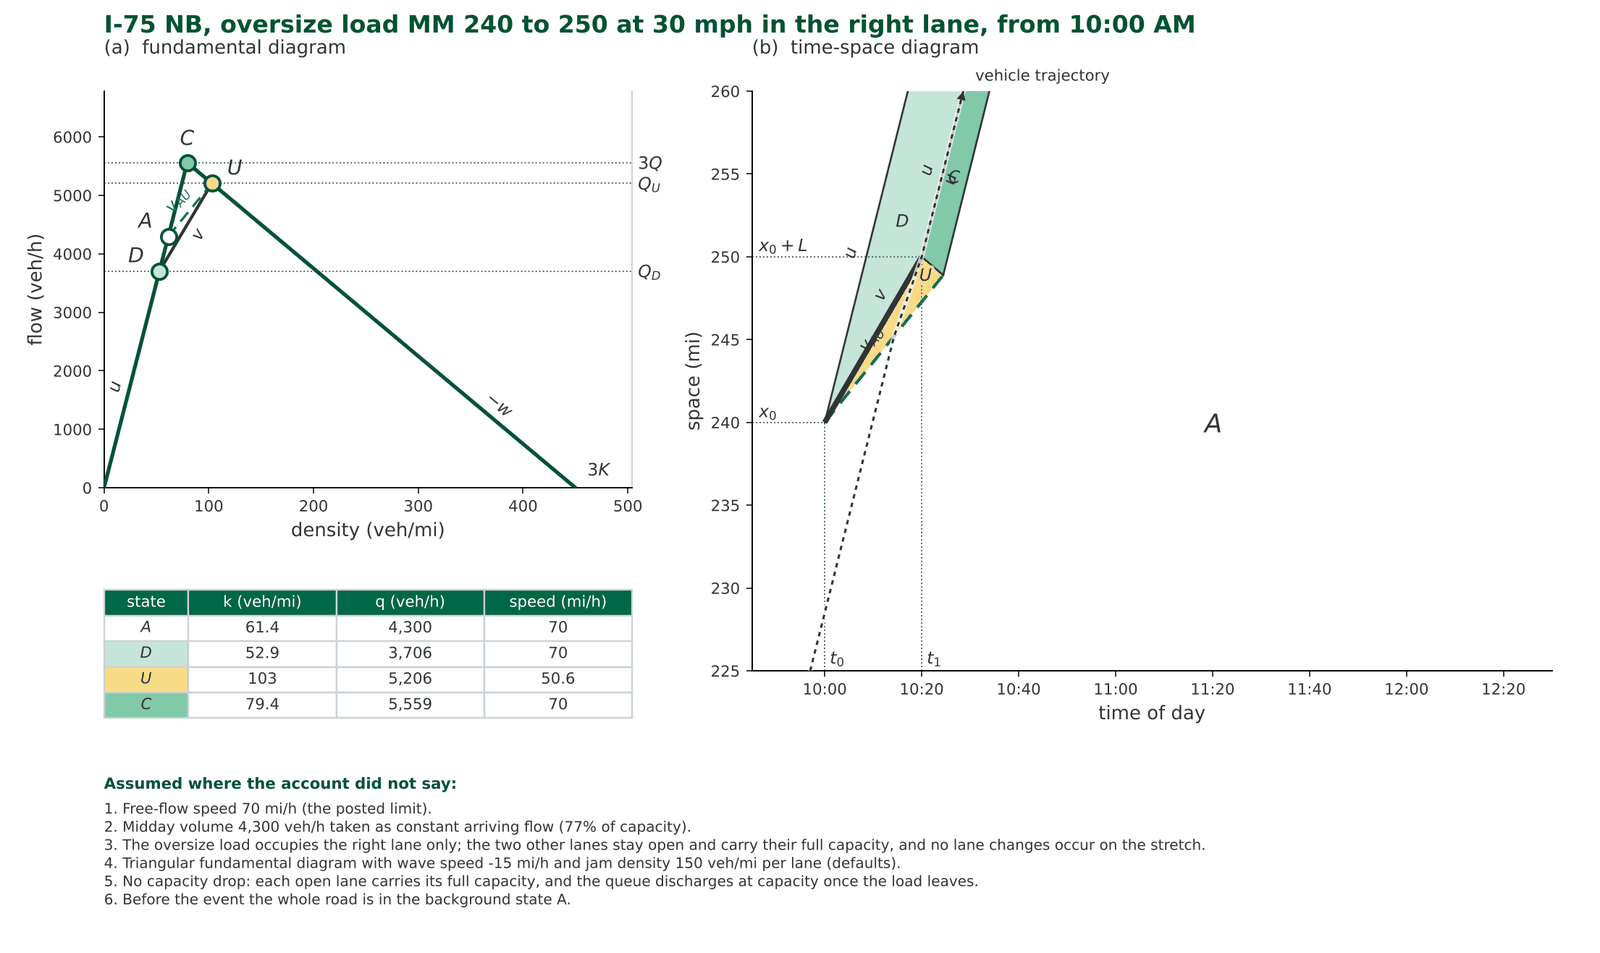
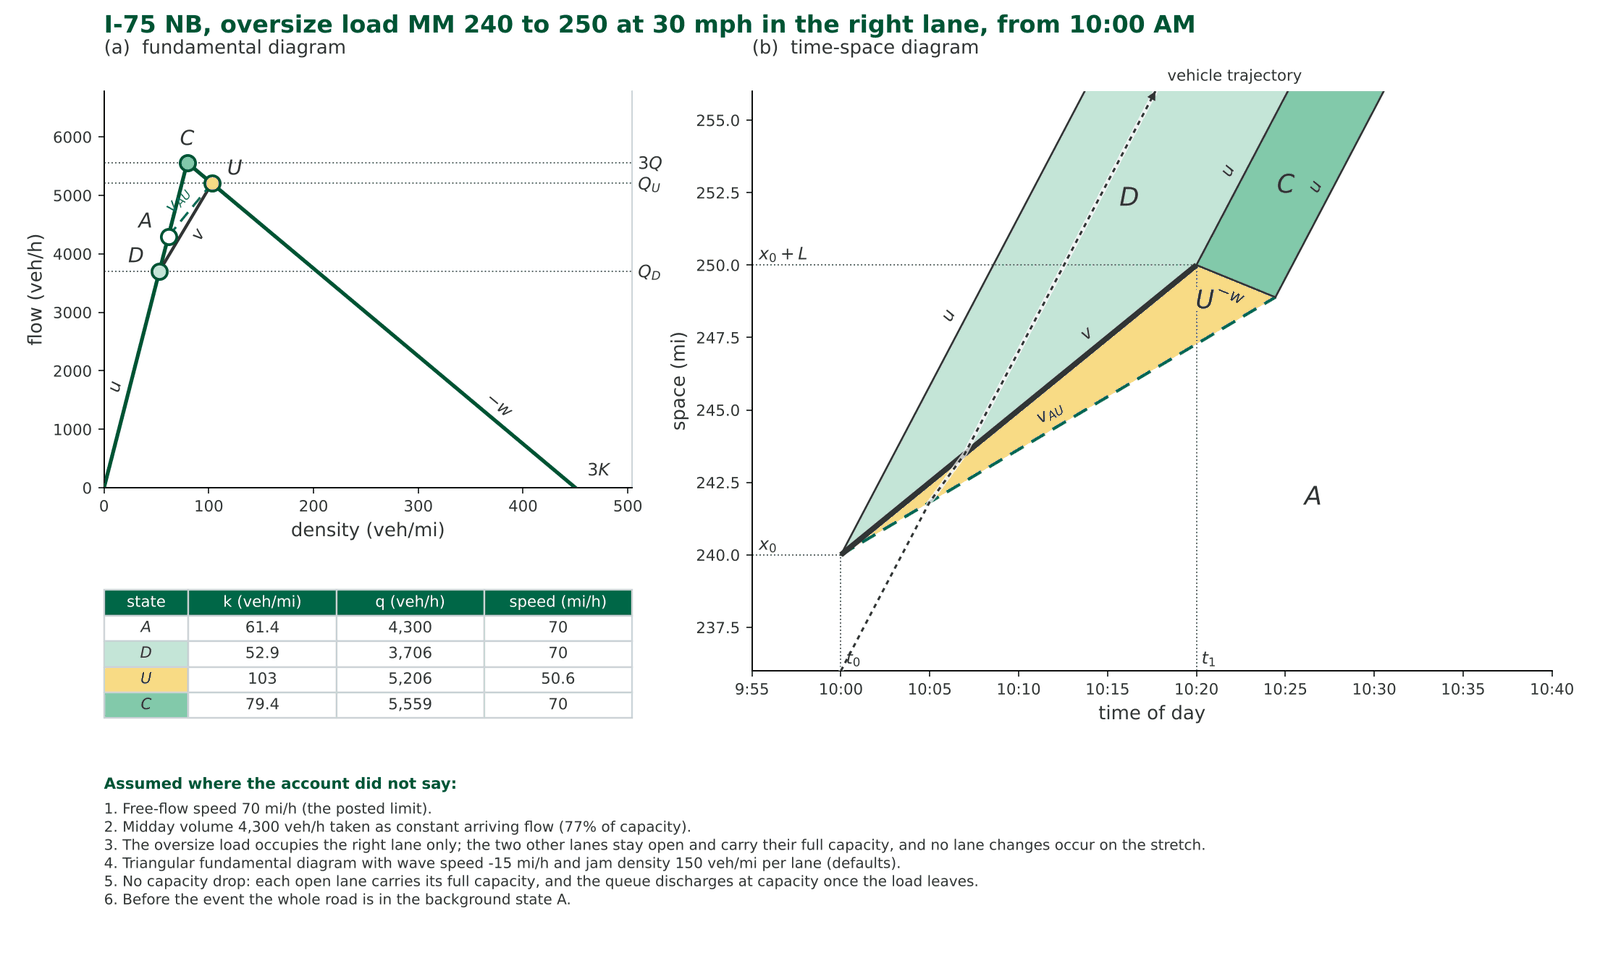
Diagram agent page: keep three examples, widen the oversize-load window
Keep the crash on two of four lanes, the slow oversize load (redrawn for
9:55-10:40 and mile markers 236-256) and the crash past an on-ramp.
Remove the drawbridge, vehicle fire and work zone examples.

Claude-Session: https://claude.ai/code/session_014NvYPouGWLsKmCMGh8xBX9

diff --git a/traffic-diagram-agent.md b/traffic-diagram-agent.md
@@ -15,7 +15,7 @@
 <div class="cta-row resource-cta-row">
   <a class="cta-button" href="https://kw-diagram-agent.onrender.com/" target="_blank" rel="noopener">Open the agent in a new tab</a>
   <a class="cta-button cta-secondary" href="#kw-write">How to write your account</a>
-  <a class="cta-button" href="#kw-examples">See six examples</a>
+  <a class="cta-button" href="#kw-examples">See three examples</a>
 </div>
 
 ## Try it
@@ -78,7 +78,7 @@ agent redraws.
 
 <div id="kw-examples"></div>
 
-## Six examples
+## Three examples
 
 Each example below is an account in the style of a traffic management center report, the diagram the agent
 drew, and the key numbers. The accounts were written for testing; they are not real FDOT incidents.
@@ -112,42 +112,7 @@ Key numbers: a queue first forms at 16:40. It is longest at 17:28, just as it cl
 4.5 mi upstream of the crash. The queue is gone by 17:28.
 ```
 
-### 2. A one-line report
-
-> Vehicle fire on I-75 southbound at MM 262. The right lane is closed and traffic is backing up.
-
-*What it shows:* a short report is enough to start. The agent asked one round of questions. The answer was:
-"Three lanes, no lane drop nearby. It started around 2:10 PM and fire rescue reopened the lane at 2:50. I
-don't have a count, but the backup was about 2 miles long when they reopened. Posted speed is 70." The agent
-then worked out the arriving traffic (about 4,140 veh/h) from the reported backup instead of guessing it.
-
-```{figure} _static/figures/KWA_Vehicle_Fire.png
-:alt: Fundamental diagram and time-space diagram for a vehicle fire that closes one of three lanes from 14:10 to 14:50. The queue behind the fire grows upstream; after the lane reopens, discharge at capacity meets the back of the queue at 15:00.
-:width: 100%
-
-Key numbers: a queue first forms at 14:10. It is longest at 15:00, just as it clears: its back is then
-2.5 mi upstream of the fire. The queue is gone by 15:00.
-```
-
-### 3. A drawbridge on an arterial, twice
-
-> We have a drawbridge on a four-lane arterial, two lanes northbound, posted 35 mph, no lane changes on the
-> approach. On Saturday the bridge opens for boat traffic at 11:00 and again at 11:30, and each opening stops
-> traffic for 6 minutes. Northbound volume on Saturdays is about 1,400 veh/h. Does the queue from the first
-> opening clear before the second one? Draw the northbound approach.
-
-*What it shows:* full stops (a jam behind the bridge, an empty road ahead of it), a repeated event, and a
-yes-or-no question. Answer: yes, the first queue is gone by 11:09, well before the second opening.
-
-```{figure} _static/figures/KWA_Drawbridge.png
-:alt: Fundamental diagram and time-space diagram for a drawbridge that stops two northbound lanes from 11:00 to 11:06 and from 11:30 to 11:36. Each opening creates a stopped queue (red, state J) and an empty road ahead (state O); each queue discharges at capacity and is gone a few minutes after the bridge closes.
-:width: 100%
-
-Key numbers: a queue first forms at 11:00. At its longest, at 11:09, its back is 0.84 mi upstream of the
-bridge. The second queue is gone by 11:39.
-```
-
-### 4. A slow oversize load
+### 2. A slow oversize load
 
 > A permitted oversize load will move on I-75 northbound tomorrow. It enters at MM 240 at 10:00 AM and leaves
 > at MM 250, travelling 30 mph in the right lane. Three lanes, posted 70, no lane changes on that stretch.
@@ -165,27 +130,7 @@ Key numbers: a queue first forms at 10:00. The queue moves with the load and is 
 2.7 mi long. The queue is gone by 10:24.
 ```
 
-### 5. A work zone: which time of day?
-
-> We are planning bridge joint repair on I-275 southbound: the right lane closed for 1.5 miles starting at the
-> Bearss Ave overpass. Three lanes there, posted 55, no other lane changes nearby. We can do it midday, 10 AM
-> to 2 PM, when volume is about 3,000 veh/h, or we can take one hour from 3 to 4 PM when volume is about
-> 4,000. Which one backs up, and how bad is it?
-
-*What it shows:* a what-if comparison, drawn as two diagrams. Two open lanes carry about 3,536 veh/h. At
-midday 3,000 veh/h arrive, so nothing is held back and that diagram shows no queue at all. From 3 to 4 PM,
-4,000 veh/h arrive and a queue builds; this is the diagram below.
-
-```{figure} _static/figures/KWA_Work_Zone_PM.png
-:alt: Fundamental diagram and time-space diagram for a lane closure from 15:00 to 16:00 with 4,000 veh/h arriving. A queue grows upstream of the overpass; after the lane reopens at 16:00 the discharge meets the back of the queue at 16:17, about 4.2 miles upstream.
-:width: 100%
-
-The 3 to 4 PM option. Key numbers: a queue first forms at 15:00. It is longest at 16:17, just as it clears:
-its back is then 4.2 mi upstream of the overpass. The queue is gone by 16:17. (Midday option: no queue
-forms.)
-```
-
-### 6. A crash just past an on-ramp
+### 3. A crash just past an on-ramp
 
 > Crash on I-75 northbound about half a mile past the SR 56 on-ramp, one of three lanes blocked from 7:15 to
 > 7:45 AM. The mainline was carrying about 4,000 veh/h and the ramp about 700. Posted 70, no lane changes
